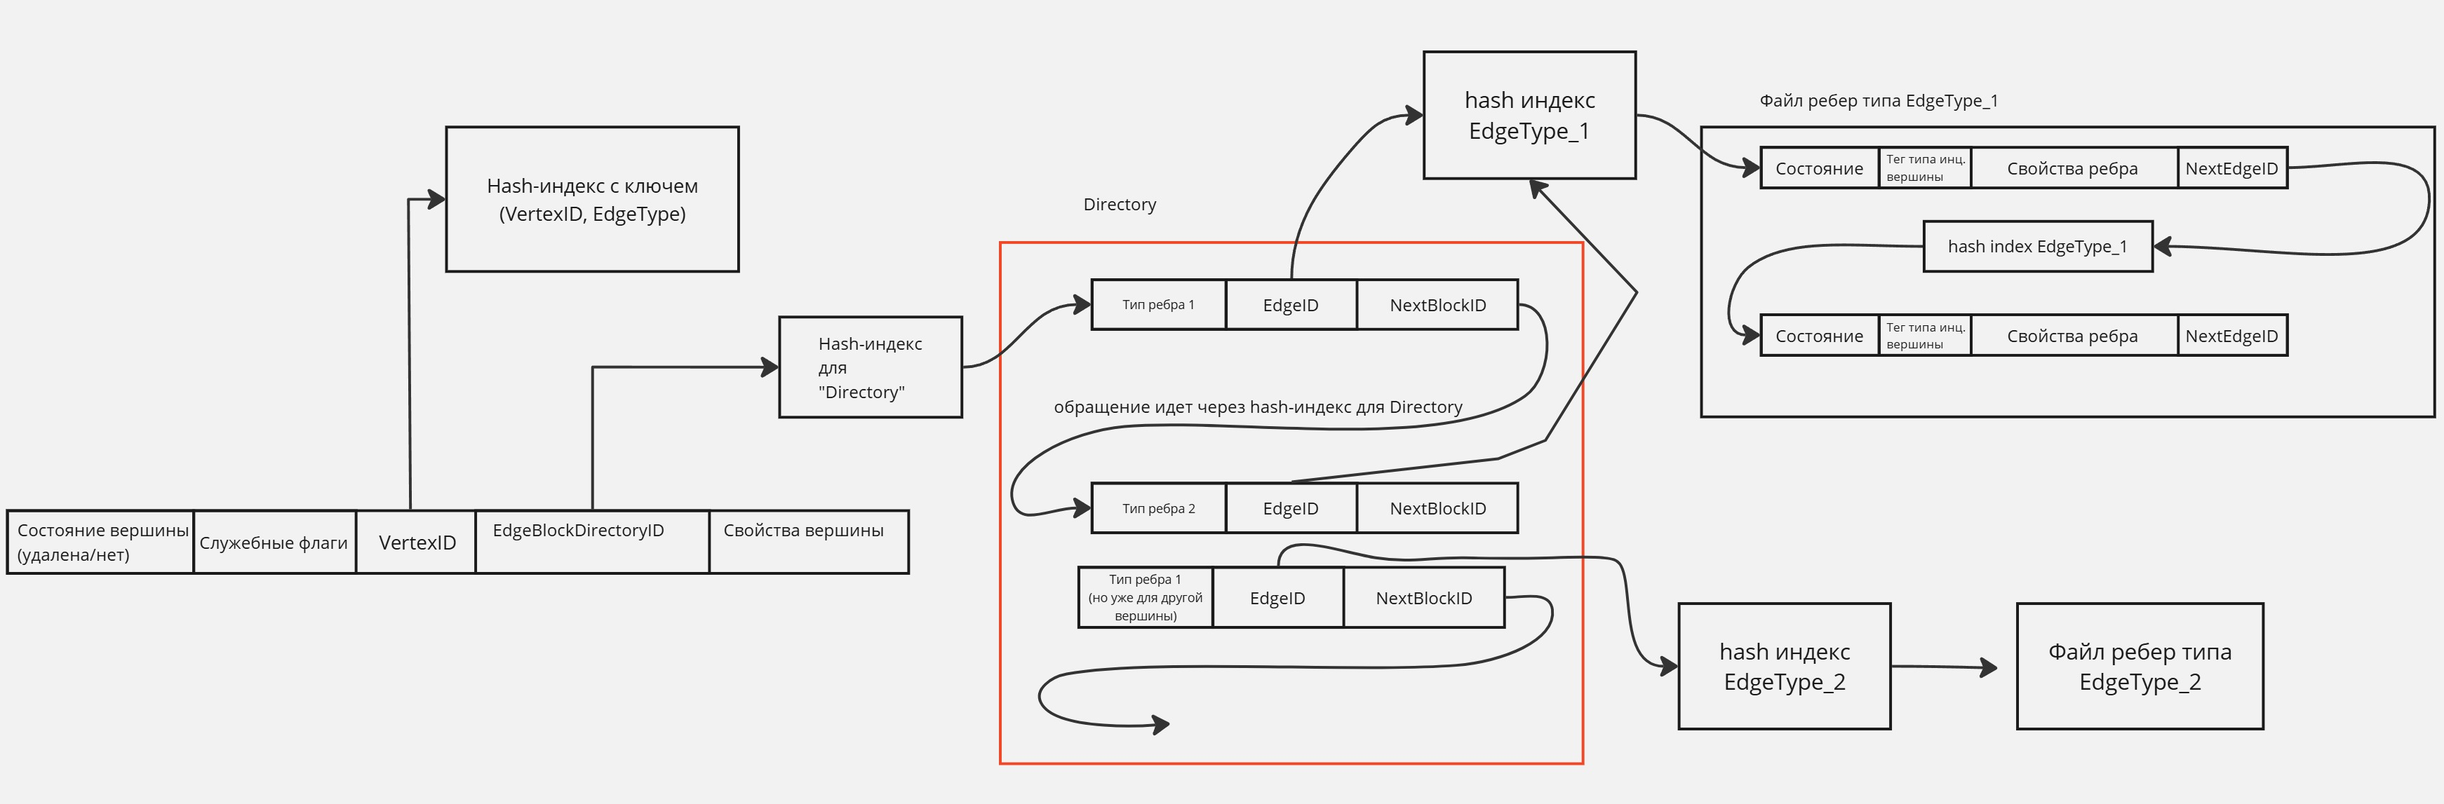
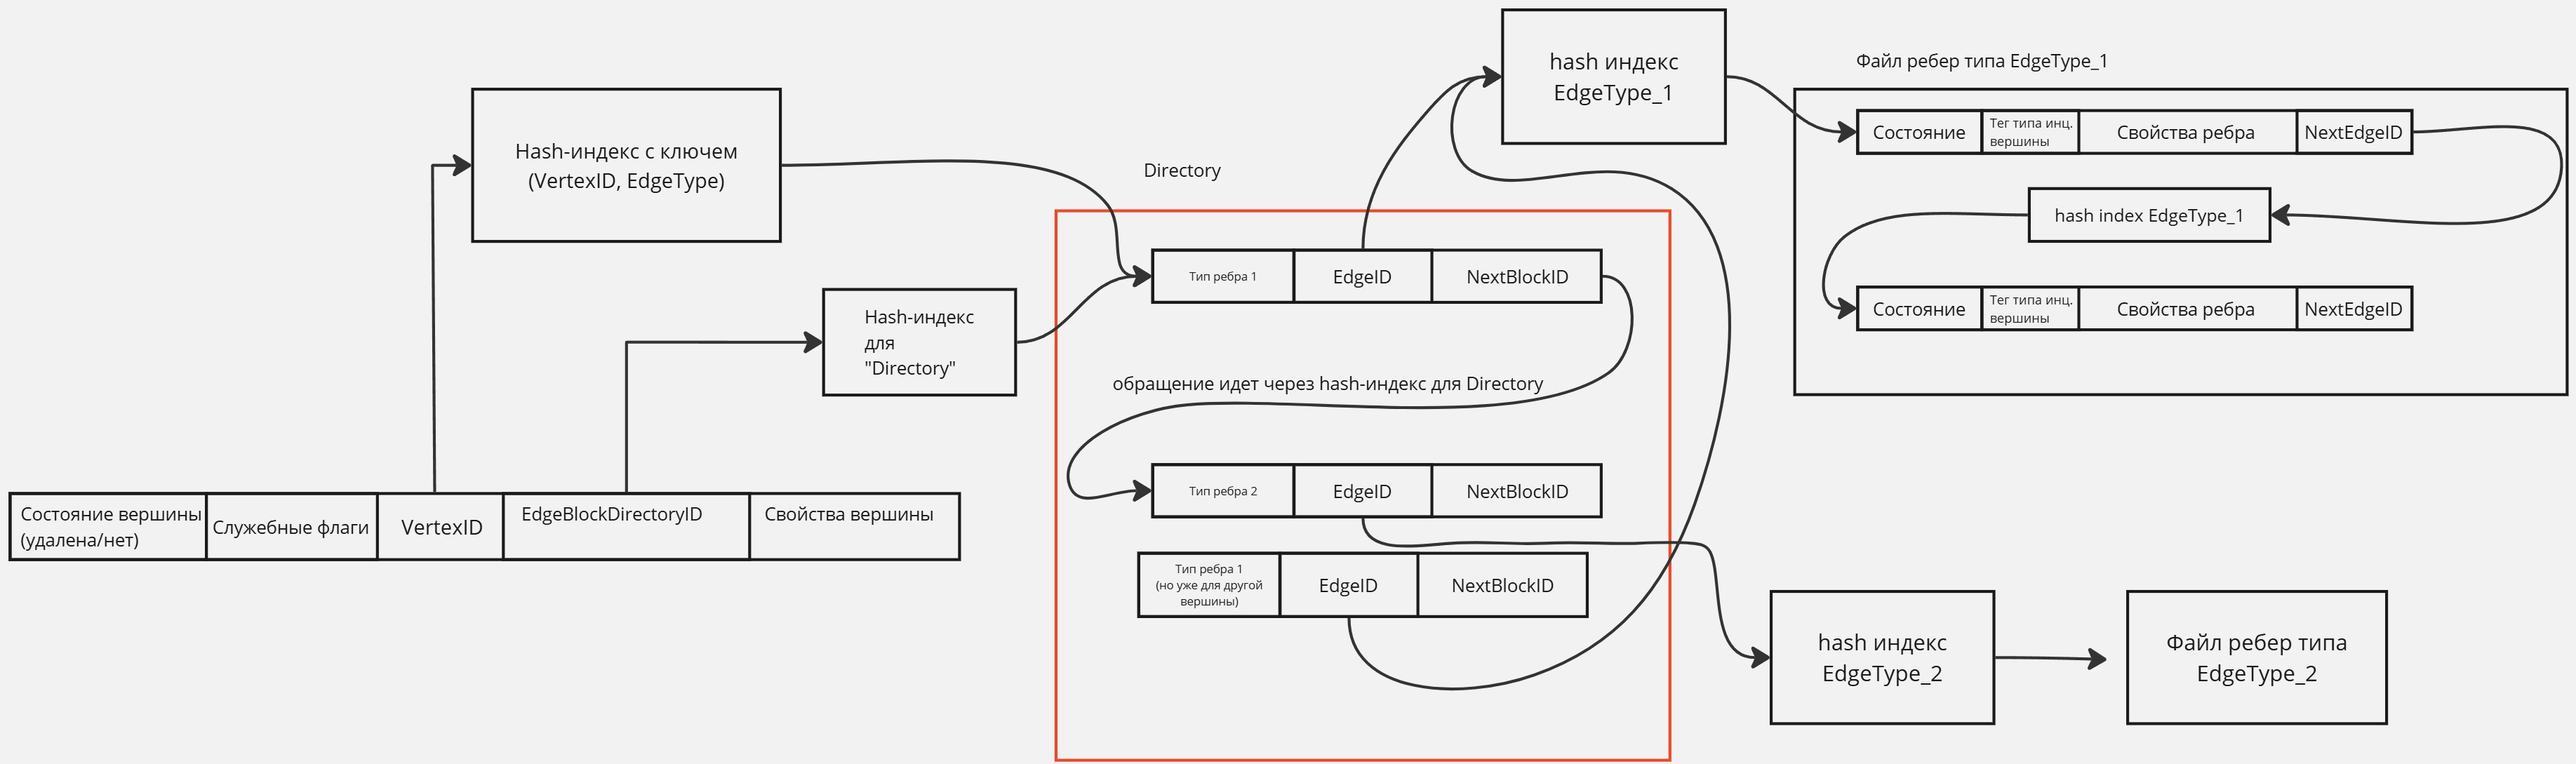
blah

diff --git a/docs/physical-storage.md b/docs/physical-storage.md
@@ -28,7 +28,8 @@
 - `ID` следующего блока данной вершины
 
 
-Данные будут храниться в hash индексе для повышения скорости запроса.
+Данные будут храниться в hash индексе, чтобы это работало достаточно быстро + 
+это наверное единственное адекватное решение.
 
 ## Edge
 
@@ -37,10 +38,11 @@
 - свойства ребра
 - `ID` следующего ребра данной вершины
 
-Данные будут храниться в hash индексе для повышения скорости запроса.
+Данные будут храниться в hash индексе, чтобы это работало достаточно быстро + 
+это наверное единственное адекватное решение.
 
 ## Общая схема
-Для упрощения тут указаны не все поля. Также на схеме нет ничего про свойства
+Для упрощения тут указаны не все поля.
 
 ![alt text](scheme.jpg)
 
@@ -48,12 +50,15 @@
 
 Есть сложности с повторным использованием места после того, как запись, которая там находилась - была удалена. Вся наша система была построена на том, что у записи есть `ID` и `[ID * размер_элемента, (ID + 1) * размер_элемента)` это место, где хранится этот элемент. По ТЗ необходимо сделать поддержку выставления `ID` пользователем. Для этого собирались разделить два вида `ID` - системные (отвечающие за то, где в памяти лежит элемент) и пользовательские (которые использует пользователь) и хранить хеш-таблицу для отображения одного в другое.
 
+Neo4j компакцию делаю через копию базы, убирая пропуски во время копии, в этот момент
+делается лок на всю базу: [источник](https://neo4j.com/docs/operations-manual/current/performance/space-reuse/)
+
 Переиспользование участков памяти, где лежат уже удаленные элементы - ломает эту концепцию. Есть два подхода к этой проблеме:
 1) В какой-то момент делать `Stop-The-World` и сжимать записи (то есть заполнять пропущенные места), что будет довольно дорого из-за временного лока на ВСЮ базу данных, да и потом еще и индексы все надо будет перестроить и поменять "чиселки" во внешних ключах
 
 2) Во время вставки находить самое первое пустое место, но это ломает вставку за `O(1)`.
 BTW я придумал как делать это за `O(log N)`.
-Можно для файла хранить большую битовую маску. Если на `i-ой` позиции элемент удален/не был туда вставлен - храним `0`, если элемент вставлен и используется - `1`. Тогда задача сводится к нахождению самого левого нуля в массиве.
+Можно для файла хранить большую битовую маску. Если на `i-ой` позиции элемент удален/не был туда вставлен - храним `1`, если элемент вставлен и используется - `0`. Тогда задача сводится к нахождению самого левого нуля в массиве.
 
     Это можно сделать с помощью дерева отрезков (точнее его модификации). Как делать запрос `a[i] = 0/1` - очевидно. Как находить самую левую единицу - вещь менее тривиальная. Функцией объединения отрезков сделаем ИЛИ. Тогда если на отрезке есть хотя бы одна единица - в вершине, которая за нее отвечает лежит `1`. При поступлении запроса будем спускаться по дереву как можно левее. Сначала будем проверять значение в левом ребенке, если там `1`, то идем туда, если `0` - идем вправо. Итого получим `O(log N)`, так как дерево отрезков имеет логарифмическую высоту, а на каждом слое делается не более двух проверок.
 
